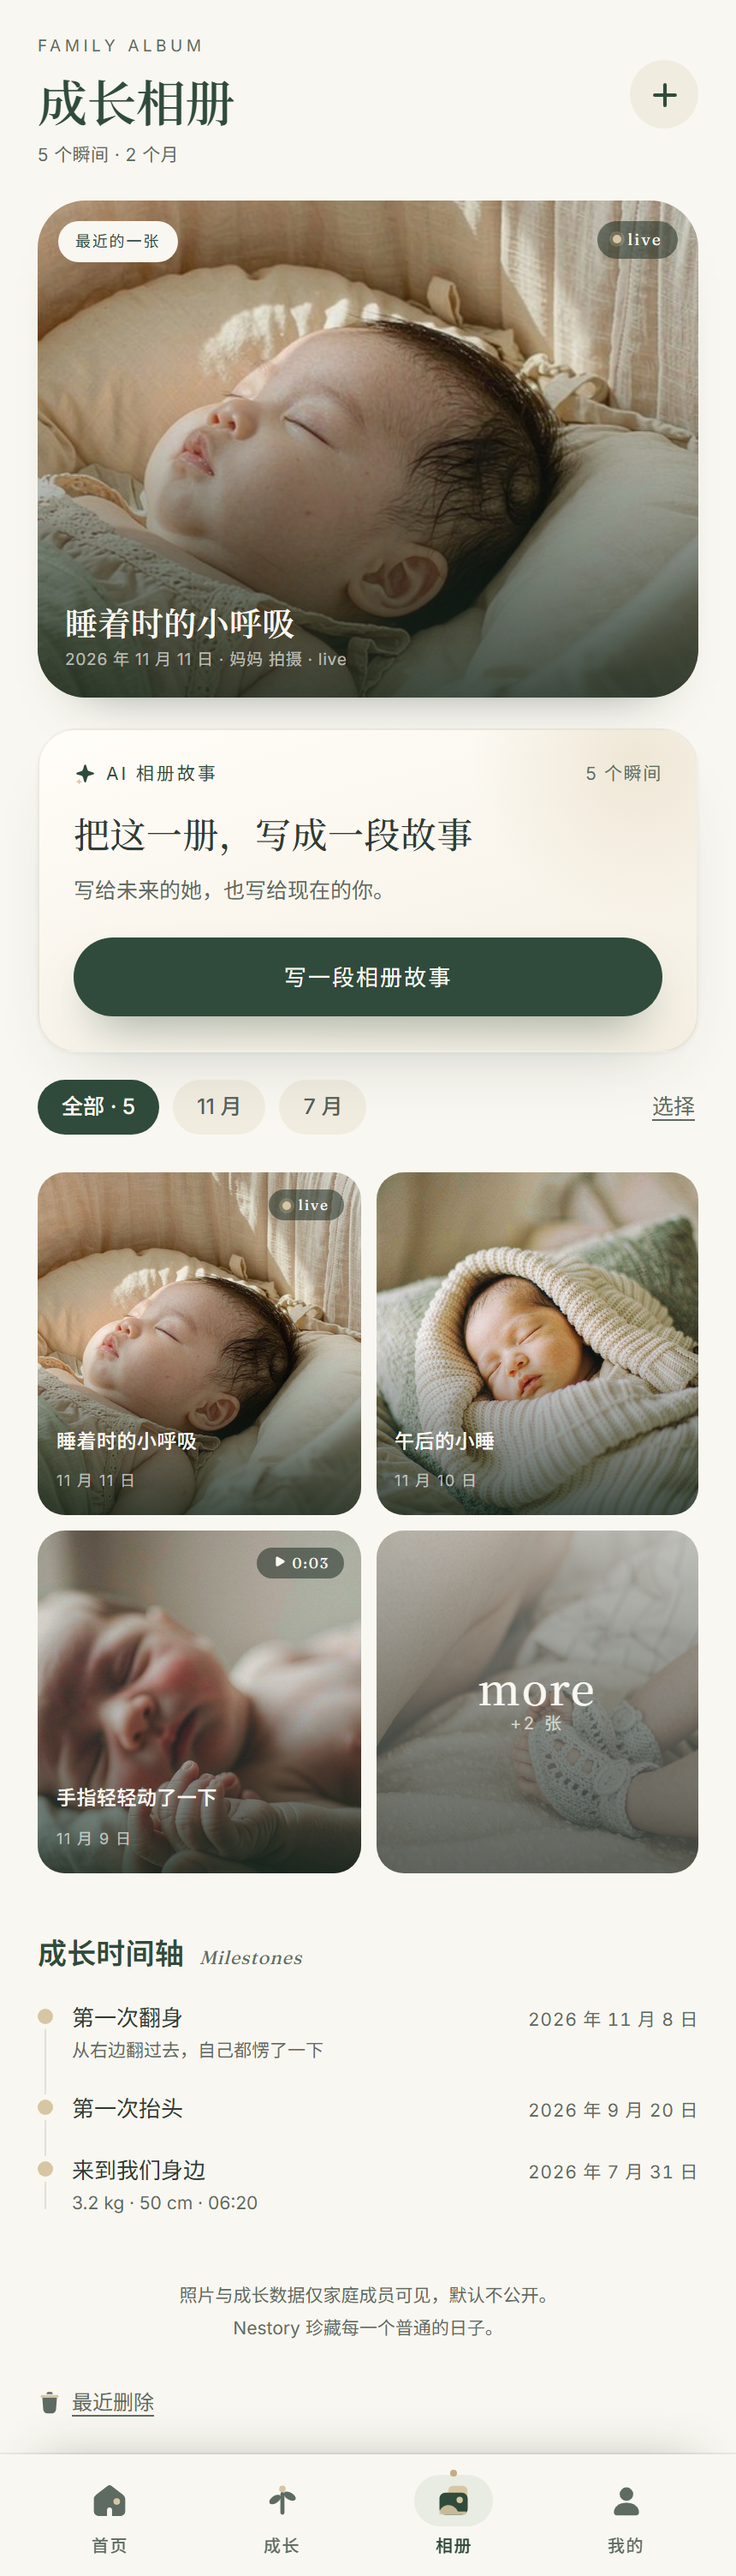
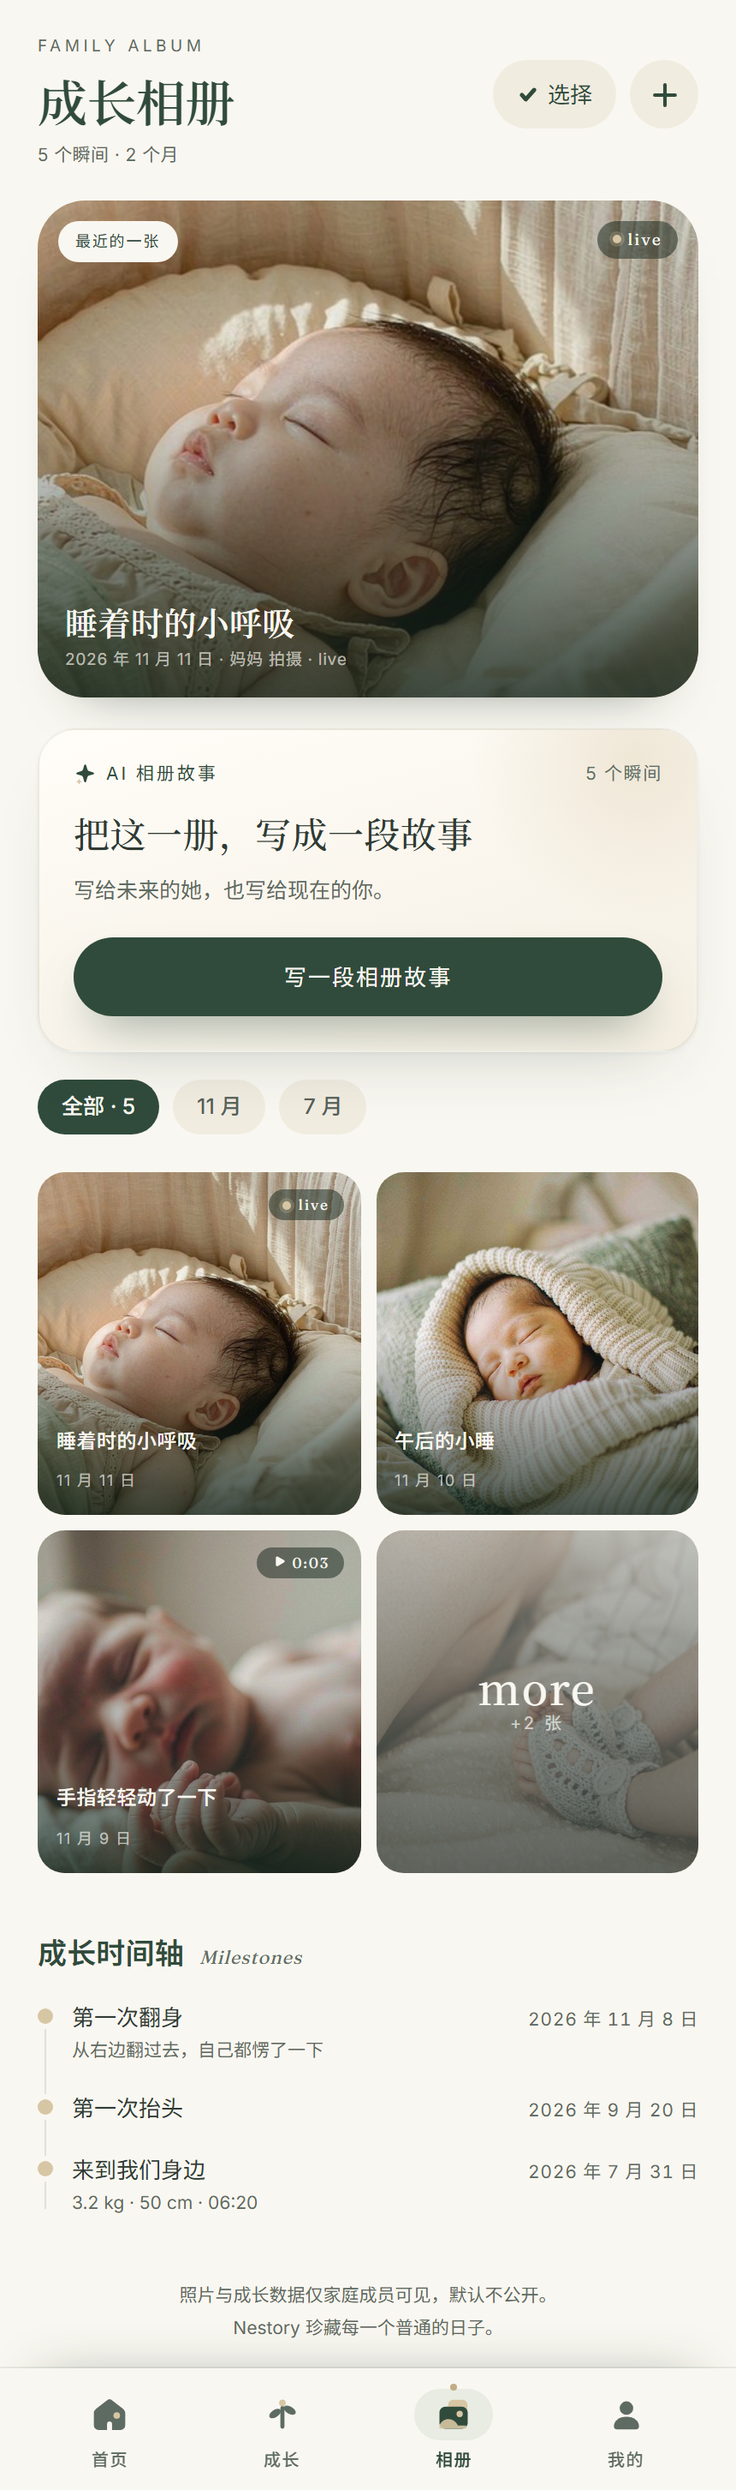
style(album): turn select into a header button and move trash to profile
「选择」改成标题栏里与「+」并列的胶囊按钮；最近删除从相册底部移到「我的」设置列表，仅管理员可见，返回来源按进入路径决定。

diff --git a/src/pages/Profile.tsx b/src/pages/Profile.tsx
@@ -1,4 +1,4 @@
-import { useRef, useState } from 'react'
+import { Fragment, useRef, useState } from 'react'
 import { Icon } from '../brand/icons'
 import { NestoryLogo } from '../brand/Logo'
 import { Sheet } from '../components/Sheet'
@@ -106,6 +106,8 @@ export default function ProfilePage() {
       if (avatarRef.current) avatarRef.current.value = ''
     }
   }
+
+  const canDelete = state.family.some((m) => m.id === state.viewerId && m.permission === 'admin')
 
   const menuActions: Record<(typeof PROFILE_MENU)[number]['key'], () => void> = {
     settings: () => navigate('settings'),
@@ -225,21 +227,39 @@ export default function ProfilePage() {
           </div>
           <div className="settings">
             {rows.map((r) => (
-              <button key={r.title} className="setting" onClick={r.onClick}>
-                <span className="setting__icon">
-                  <Icon name={r.icon} size={18} />
-                </span>
-                <span className="setting__main">
-                  <span className="setting__title">{r.title}</span>
-                  <span className="setting__sub" style={{ display: 'block' }}>
-                    {r.sub}
+              <Fragment key={r.title}>
+                {r.key === 'about' && canDelete ? (
+                  <button className="setting" onClick={() => navigate('trash', 'profile')}>
+                    <span className="setting__icon">
+                      <Icon name="trash" size={18} />
+                    </span>
+                    <span className="setting__main">
+                      <span className="setting__title">最近删除</span>
+                      <span className="setting__sub" style={{ display: 'block' }}>
+                        7 天内可恢复 · 仅管理员
+                      </span>
+                    </span>
+                    <span className="setting__value">
+                      <Icon name="chevronRight" size={12} />
+                    </span>
+                  </button>
+                ) : null}
+                <button className="setting" onClick={r.onClick}>
+                  <span className="setting__icon">
+                    <Icon name={r.icon} size={18} />
                   </span>
-                </span>
-                <span className="setting__value">
-                  {r.value}
-                  <Icon name="chevronRight" size={12} />
-                </span>
-              </button>
+                  <span className="setting__main">
+                    <span className="setting__title">{r.title}</span>
+                    <span className="setting__sub" style={{ display: 'block' }}>
+                      {r.sub}
+                    </span>
+                  </span>
+                  <span className="setting__value">
+                    {r.value}
+                    <Icon name="chevronRight" size={12} />
+                  </span>
+                </button>
+              </Fragment>
             ))}
           </div>
         </section>

diff --git a/src/pages/Trash.tsx b/src/pages/Trash.tsx
@@ -4,7 +4,8 @@ import { ScreenHead } from '../components/Common'
 import { useStore } from '../data/store'
 import { ApiError, mediaApi } from '../data/api'
 import type { TrashItemDto } from '../data/api'
-import { navigate } from '../lib/route'
+import { getRouteFrom, navigate } from '../lib/route'
+import type { Route } from '../lib/route'
 import { monthDay } from '../lib/date'
 import type { Photo, TrashItem } from '../data/types'
 
@@ -23,6 +24,8 @@ function daysLeft(expiresAt: string | null): number {
 
 export default function TrashPage() {
   const { state, dispatch, toast } = useStore()
+  const from: Route = getRouteFrom() === 'profile' ? 'profile' : 'album'
+  const backLabel = from === 'profile' ? '回到我的' : '回到相册'
   const isAdmin = state.family.some((m) => m.id === state.viewerId && m.permission === 'admin')
   const [items, setItems] = useState<TrashItemDto[] | null>(null)
   const [error, setError] = useState('')
@@ -106,7 +109,7 @@ export default function TrashPage() {
   if (!isAdmin) {
     return (
       <div className="page page--sub">
-        <ScreenHead title="最近删除" sub="RECENTLY DELETED" back="album" />
+        <ScreenHead title="最近删除" sub="RECENTLY DELETED" back={from} />
         <div className="page__body">
           <div className="empty" style={{ paddingTop: 60 }}>
             只有家庭管理员可以查看最近删除。
@@ -118,7 +121,7 @@ export default function TrashPage() {
 
   return (
     <div className="page page--sub">
-      <ScreenHead title="最近删除" sub="RECENTLY DELETED" back="album" />
+      <ScreenHead title="最近删除" sub="RECENTLY DELETED" back={from} />
       <div className="page__body">
         <p className="about-note" style={{ marginTop: 0 }}>
           删掉的照片会在这里留 7 天。7 天后自动彻底删除，无法找回。
@@ -203,8 +206,8 @@ export default function TrashPage() {
           </div>
         )}
 
-        <button type="button" className="link-btn" style={{ marginTop: 24 }} onClick={() => navigate('album', 'trash')}>
-          回到相册
+        <button type="button" className="link-btn" style={{ marginTop: 24 }} onClick={() => navigate(from, 'trash')}>
+          {backLabel}
         </button>
       </div>
     </div>

diff --git a/src/pages/Album.tsx b/src/pages/Album.tsx
@@ -14,7 +14,6 @@ import { hasMotion, isVideoPhoto, motionOf } from '../lib/photo'
 import { isBeforeBirth } from '../lib/birth'
 import { MEDIA_GROUPS, MEDIA_LIMITS } from '../data/config'
 import { ApiError, mediaApi } from '../data/api'
-import { navigate } from '../lib/route'
 
 /** Badge for a motion clip: LIVE for live photos, length for videos. */
 async function requestCaptionTitles(src: string, hint: string): Promise<string[]> {
@@ -749,9 +748,17 @@ export default function AlbumPage() {
             : `${visible.length} 个瞬间 · ${scope ?? ''}`
         }
         right={
-          <button className="icon-btn" aria-label="添加到相册" onClick={() => setAddOpen(true)}>
-            <Icon name="plus" size={19} />
-          </button>
+          <div className="album-head-actions">
+            {canDelete && photos.length && !selectMode ? (
+              <button type="button" className="album-select-btn" onClick={() => setSelectMode(true)}>
+                <Icon name="check" size={13} />
+                选择
+              </button>
+            ) : null}
+            <button className="icon-btn" aria-label="添加到相册" onClick={() => setAddOpen(true)}>
+              <Icon name="plus" size={19} />
+            </button>
+          </div>
         }
       />
 
@@ -795,11 +802,6 @@ export default function AlbumPage() {
               </button>
             ))}
           </div>
-          {canDelete && photos.length && !selectMode ? (
-            <button type="button" className="album-select-toggle" onClick={() => setSelectMode(true)}>
-              选择
-            </button>
-          ) : null}
         </div>
 
         {groups.length === 0 ? (
@@ -847,13 +849,6 @@ export default function AlbumPage() {
           <br />
           Nestory 珍藏每一个普通的日子。
         </p>
-
-        {canDelete ? (
-          <button type="button" className="album-trash-link" onClick={() => navigate('trash', 'album')}>
-            <Icon name="trash" size={14} />
-            最近删除
-          </button>
-        ) : null}
       </div>
 
       {selectMode ? (

diff --git a/src/styles/pages.css b/src/styles/pages.css
@@ -4475,30 +4475,40 @@
 }
 
 /* ---------- album delete + trash ---------- */
-.album-filters {
+.album-head-actions {
   display: flex;
   align-items: center;
-  gap: 10px;
+  gap: 8px;
+  margin-top: 15px;
+}
+
+.album-head-actions .icon-btn {
+  margin-top: 0;
+}
+
+.album-select-btn {
+  display: inline-flex;
+  align-items: center;
+  gap: 5px;
+  height: 40px;
+  padding: 0 14px;
+  border-radius: 999px;
+  font-size: calc(13px * var(--type-scale, 1));
+  color: var(--forest);
+  background: var(--ivory-deep);
+}
+
+.album-select-btn:active {
+  transform: scale(0.96);
+}
+
+.album-filters {
   margin-top: 16px;
 }
 
 .album-filters__chips {
   flex: 1;
   min-width: 0;
-}
-
-.album-select-toggle {
-  flex: none;
-  padding: 4px 2px;
-  font-size: calc(12.5px * var(--type-scale, 1));
-  color: var(--ink-3);
-  background: none;
-  text-decoration: underline;
-  text-underline-offset: 3px;
-}
-
-.album-select-toggle:hover {
-  color: var(--ink);
 }
 
 .album-card--selectable img {
@@ -4583,7 +4593,6 @@
   color: var(--ink-3);
 }
 
-.album-trash-link,
 .link-btn {
   display: inline-flex;
   align-items: center;

diff --git a/README.md b/README.md
@@ -98,9 +98,9 @@ AI 目前有六处入口。前五处把当前整份 `AppState` POST 给后端：
 | `#/feed` | 喂养中心 | 统计、近 7 天趋势、提醒、二级喂养记录与编辑删除；不显示录入表单 |
 | `#/record` | 快速记录 | 从首页摘要卡进入，只保留方式选择与最近 5 条；保存后回到首页 |
 | `#/growth` | 成长记录 | 左对齐标题；最新测量深绿卡、体重趋势、五列队列表格；睡眠、尿布分段 |
-| `#/album` | 电子相册 | 最近瞬间封面、预览最多 4 格（>4 时末格为 more + 剩余数量）、月份筛选、完整二级页、全屏查看与手势缩放、添加面板（照片 2 种 / 视频 2 种，会动短片自动归入照片）、成长时间轴；管理员可进入多选删除，删除的照片进「最近删除」 |
-| `#/trash` | 最近删除 | 仅家庭管理员可见；列出 7 天内删掉的照片，可一张张恢复；超过 7 天由服务端定时任务彻底删除，无法找回 |
-| `#/profile` | 我的家庭 | 宝宝档案（昵称/生日/出生信息/头像上传或拍照）、家庭成员（邀请家人、权限可改、可移出、头像同步）、通用设置与提醒/备份/隐私入口 |
+| `#/album` | 电子相册 | 最近瞬间封面、预览最多 4 格（>4 时末格为 more + 剩余数量）、月份筛选、完整二级页、全屏查看与手势缩放、添加面板（照片 2 种 / 视频 2 种，会动短片自动归入照片）、成长时间轴；管理员可从标题栏「选择」进入多选删除，删除的照片进「最近删除」 |
+| `#/trash` | 最近删除 | 仅家庭管理员可见，从「我的」设置进入；列出 7 天内删掉的照片，可一张张恢复；超过 7 天由服务端定时任务彻底删除，无法找回 |
+| `#/profile` | 我的家庭 | 宝宝档案（昵称/生日/出生信息/头像上传或拍照）、家庭成员（邀请家人、权限可改、可移出、头像同步）、通用设置与提醒/备份/隐私入口；管理员多一行「最近删除」 |
 | `#/invite` | 邀请家人 | 二级页；选权限（可记录与编辑 / 只读 / 家庭管理员）、生成 7 天一次性链接、复制或系统分享 |
 | `#/join` | 加入家庭 | 二级页；展示邀请人与家庭、只读/可编辑权限；已用、过期、链接不完整的空状态；加入后进入同一份记录 |
 | `#/settings` | 通用设置 | 字体大小、减少动效、通知权限、提醒开关、存储空间、导出数据、隐私政策与用户协议 |
@@ -206,7 +206,7 @@ src/
 | 项目 | 结果 |
 | --- | --- |
 | `tsc --noEmit` | 通过，无类型错误 |
-| `npm run build` | 通过（约 2.0s，JS 439.9 kB / gzip 134.5 kB，CSS 280.9 kB / gzip 81.2 kB） |
+| `npm run build` | 通过（约 2.4s，JS 440.5 kB / gzip 134.6 kB，CSS 280.9 kB / gzip 81.2 kB） |
 | `npm test` | 32 个用例全部通过（6 个文件）：月龄、喂养提醒到点/夜间抑制/去重、跨午夜间隔、统计、编辑/删除重算、睡眠裁剪、纪念日倒计时与当天边界、API 错误映射、照片色调 |
 | 首页轮播（`node _e2e_home.mjs`） | 28/28 通过：自动轮播、指示点同步、点击切换、真实手指左滑、竖滑不锁页面、无横向溢出、四宫格/加号格/仅相册选图/更换/清空/恢复默认（登录后数据来自 MySQL） |
 | 纪念日卡片（`node _e2e_anniversary.mjs`） | 10/10 通过：平日是只读倒计时并显示日期、当天变为「今天」且可点、录入面板、一句话写进成长时间轴（kind=anniversary，带上写下时的生日）、改回出生日期后记录从时间轴收起、生日改回去后记录重新出现、测试后还原演示数据 |
@@ -229,7 +229,7 @@ src/
 | 成长与相册布局（`node _e2e_layout.mjs`） | 35/35 通过：成长页无返回键、统计与测量表、睡眠/尿布筛选、相册封面与四宫格、更多入口、整页列表、月份筛选、封面始终取全局最新 |
 | 无障碍审计（`node _a11y_audit.mjs`） | axe-core 4.10 跑 12 个路由（含邀请页与加入页），0 项违规：地标、标题层级、表单标签、可聚焦滚动区、颜色对比度全部清零 |
 | 家庭邀请与头像（`node _e2e_invite.mjs`） | 28/28 通过：邀请入口只剩一个、邀请页生成只读链接、被邀请账号经 `#/join` 加入后看到同一份记录、只读写入被拒 403、只读删除照片被拒 403、头像上传并经另一账号看到、管理员改权限后生效、测试成员收尾清理 |
-| 相册删除与最近删除（`node _e2e_trash.mjs`） | 11/11 通过：相册多选与已选数量、确认面板说明 7 天可恢复、移入后从相册消失且回收站保留标题、最近删除页显示剩余天数、恢复后回到相册、无残留 |
+| 相册删除与最近删除（`node _e2e_trash.mjs`） | 14/14 通过：标题栏选择按钮、多选与已选数量、确认面板说明 7 天可恢复、移入后从相册消失且回收站保留标题、从「我的」进入最近删除、剩余天数、恢复后回到相册、无残留 |
 
 端到端脚本通过 Chrome DevTools Protocol 驱动真实页面，覆盖的是「用户点击 → 数据变化 → 刷新仍在」的完整链路，而不是只测函数。家庭成员现在是真实账号，`_e2e_profile.mjs` 与 `_e2e_settings.mjs` 会用 `_seed_family.mjs` 先邀请一位家人，`_e2e_invite.mjs` 结束后再把成员清理掉。
 
@@ -313,8 +313,8 @@ src/
 - **全屏查看按原比例铺满视口。** 竖图按高度、横图按宽度、方图居中留边，不裁切；双击在 1×/2× 间切换，双指可缩放到 4×，放大后单指拖动看细节、锁定左右翻页。单击隐藏标题与关闭层，再单击恢复；1× 时左右滑动/箭头/方向键仍可切换，底部显示 `2 / 5`。
 - **会动的照片与视频用「封面 + 徽标」表达。** 会动的照片在封面和全屏里循环播放并静音，视频使用系统播放控件；两者都以静帧海报进入网格，避免相册变成会自己动的广告牌。数据上只有照片与视频两类，会动的照片是照片的 motion 短片属性；旧 kind:live 记录仍兼容读取。
 - **视频不进状态 JSON。** 上传的视频与会动照片短片写入 IndexedDB，状态里只保存海报与 `videoId`；状态每次整包 `PUT /api/state`，否则一段 3 秒短片就会把提交体撑到几十 MB。
-- **删除只在相册里发生，而且只有家庭管理员能做。** 月份筛选行右侧的「选择」进入多选，底部条汇总数量，确认后移入「最近删除」；只读与可编辑成员看不到删除入口，服务端对非管理员一律返回 403。
-- **删掉的照片有 7 天反悔期。** 「最近删除」是独立二级页，7 天内可以一张张恢复；服务端只在超过 7 天后才删对象存储文件与数据库行（启动时清一次、之后每 6 小时清一次）。照片仍被成员用作头像时会拒绝删除，并提示先换头像。
+- **删除只在相册里发生，而且只有家庭管理员能做。** 相册标题栏的「✓ 选择」按钮进入多选，底部条汇总数量，确认后移入「最近删除」；只读与可编辑成员看不到删除入口，服务端对非管理员一律返回 403。
+- **删掉的照片有 7 天反悔期。** 「最近删除」在「我的」设置列表里，是独立二级页，7 天内可以一张张恢复；服务端只在超过 7 天后才删对象存储文件与数据库行（启动时清一次、之后每 6 小时清一次）。照片仍被成员用作头像时会拒绝删除，并提示先换头像。
 - **字体大小通过 `--type-scale` 放大文字，而不是缩放画布。** 直接 `zoom` 会让固定底栏错位、内容右侧被裁；现在所有字号写成 `calc(Npx * var(--type-scale, 1))`，布局宽度不变，只让阅读更松弛。
 
 ---
